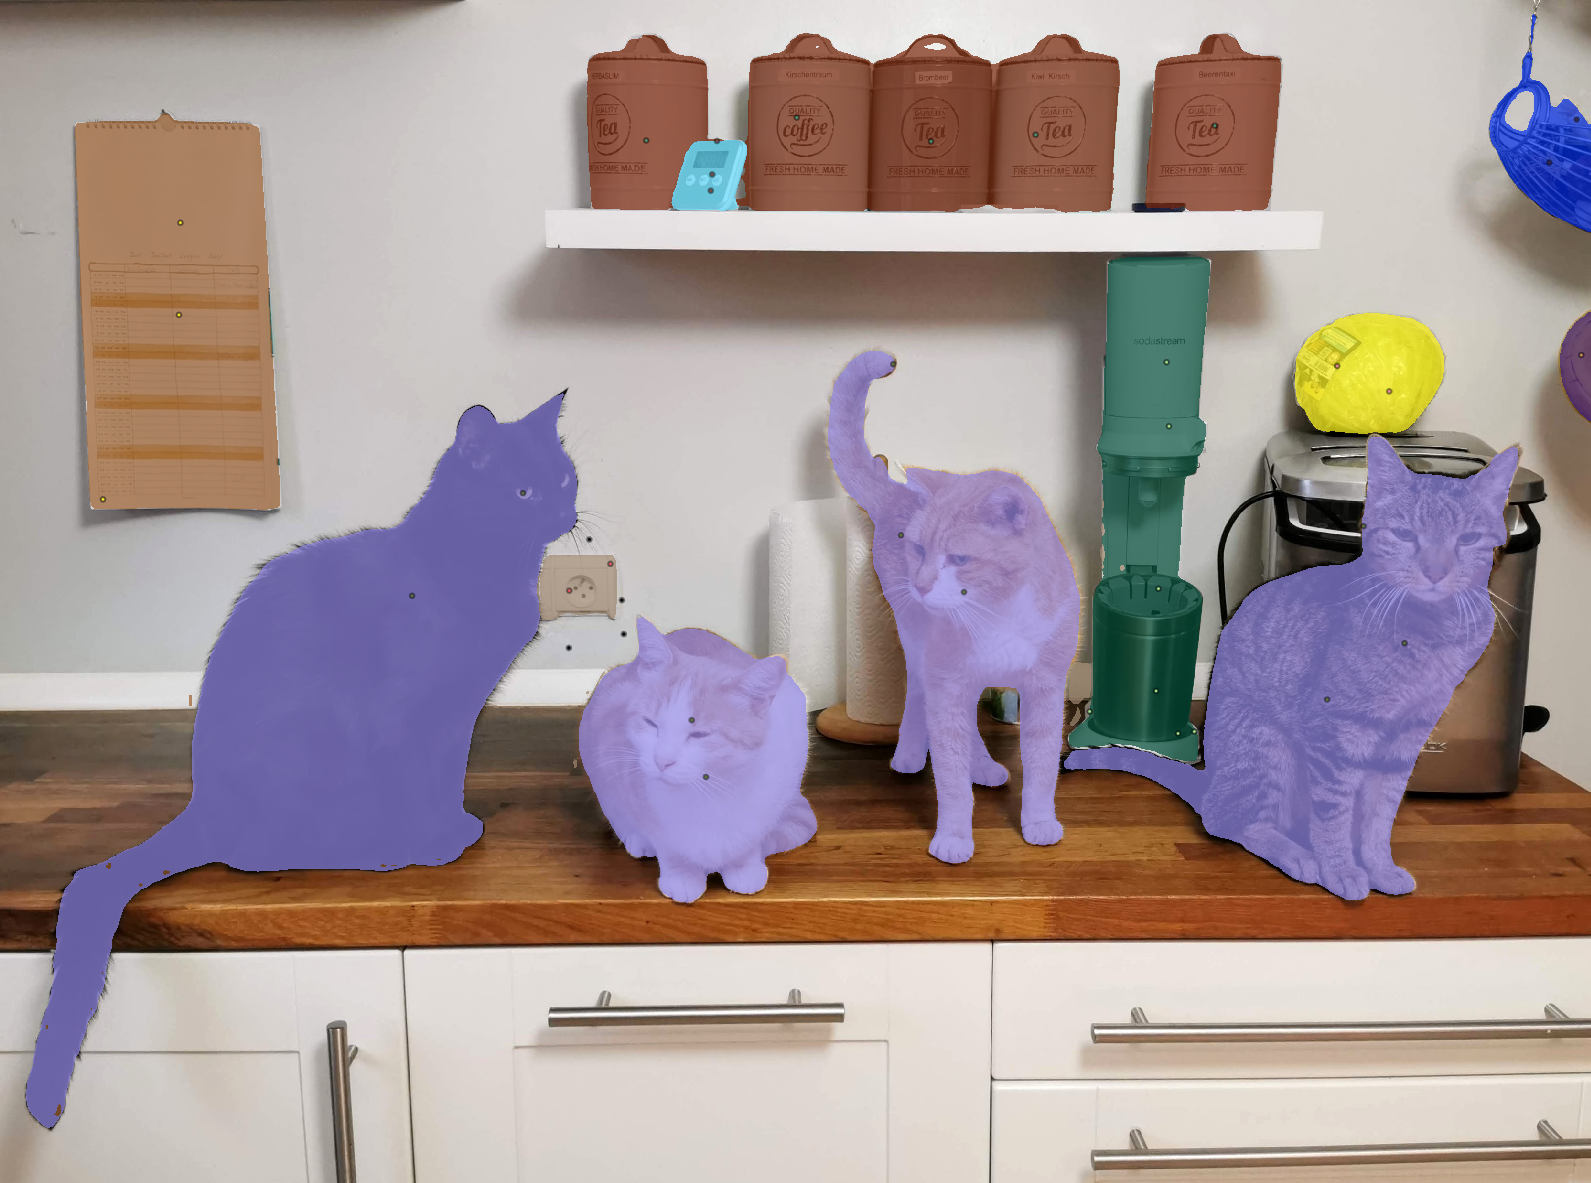
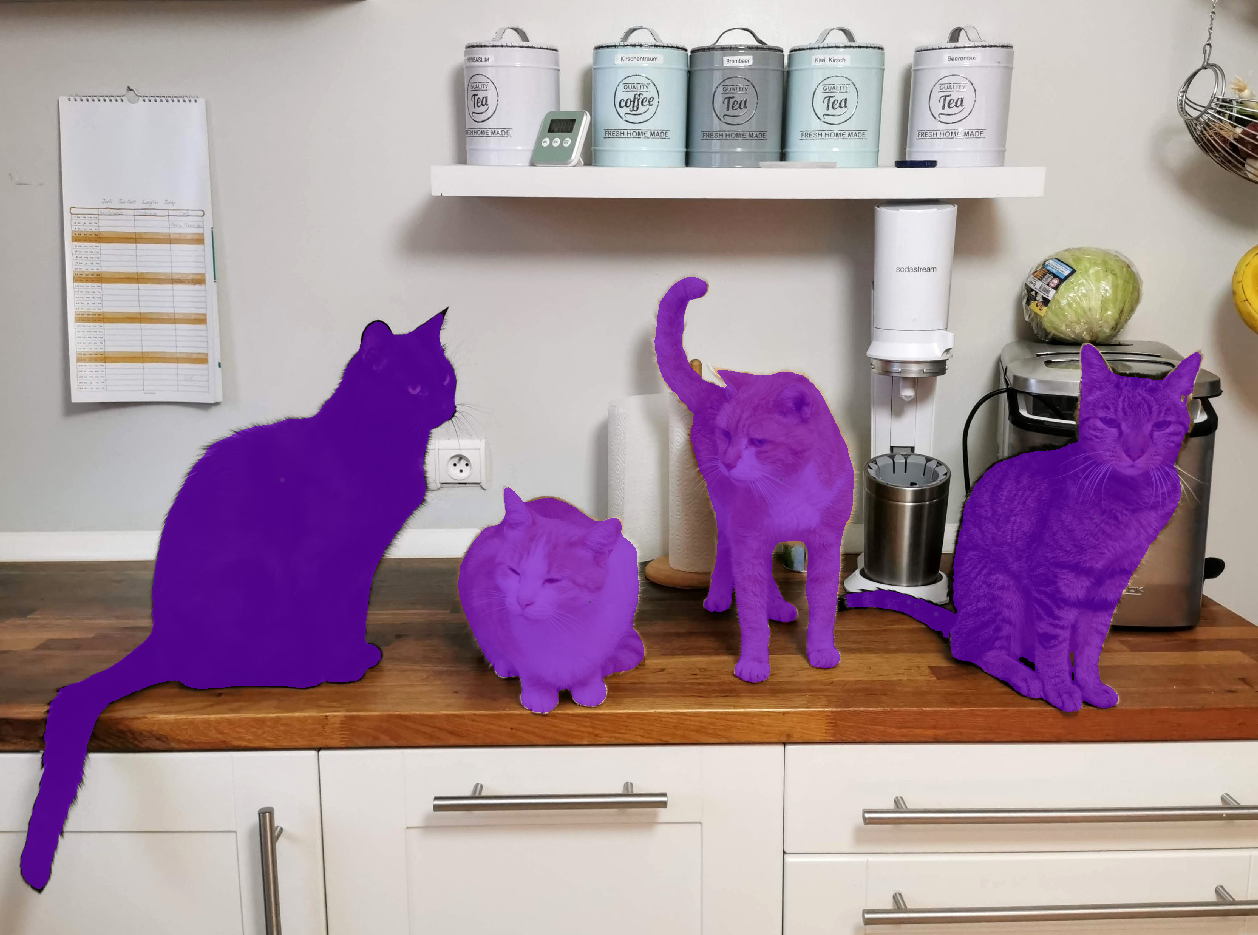
Updated readme

diff --git a/README.md b/README.md
@@ -15,9 +15,9 @@ We already **extended** SAMs click-based foreground separation to full **click-b
 
 ----------------------------------
 
-SAM's everything mode             |  Our click-based semantic segmentation mode
-:-------------------------:|:-------------------------:
-![](cats_instance.png)  |  ![](cats_semantic.png)
+Everything mode             |  Click-based semantic segmentation mode |  Click-based instance segmentation mode
+:-------------------------:|:-------------------------:|:-------------------------:
+![](cats_everything.png)  |  ![](cats_semantic.png)  |  ![](cats_instance.png)
 
 ----------------------------------
 <h2 align="center">SAM in Napari demo</h2>
